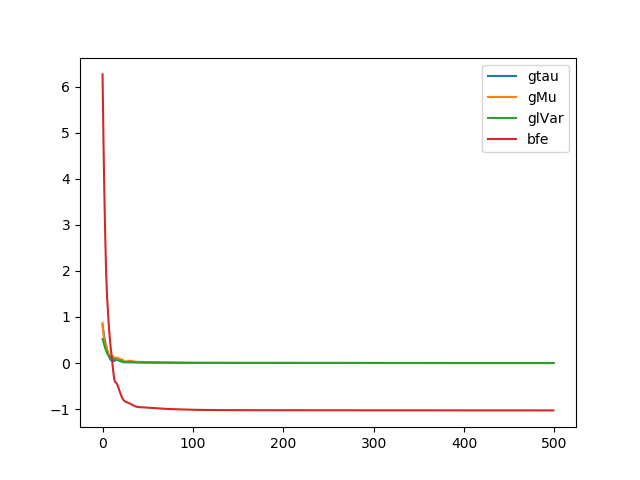
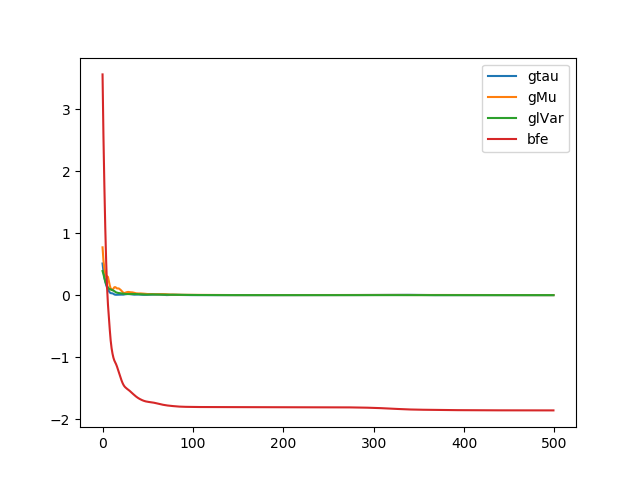
rerun continuous_mln_test_0.py with reduced singleton potential coefficient (-0.5x^2 -> -0.1x^2) for fun

diff --git a/osi/continuous_mln_test_0.py b/osi/continuous_mln_test_0.py
@@ -30,7 +30,7 @@ f1 = ParamF(
     constrain=lambda sub: sub[lv_x] > sub[lv_y]
 )
 f2 = ParamF(
-    MLNPotential(lambda atom: -0.5 * atom[0] ** 2),  # just to help ensure normalizability
+    MLNPotential(lambda atom: -0.1 * atom[0] ** 2),  # just to help ensure normalizability
     nb=[atom_smoke_x]
 )
 
